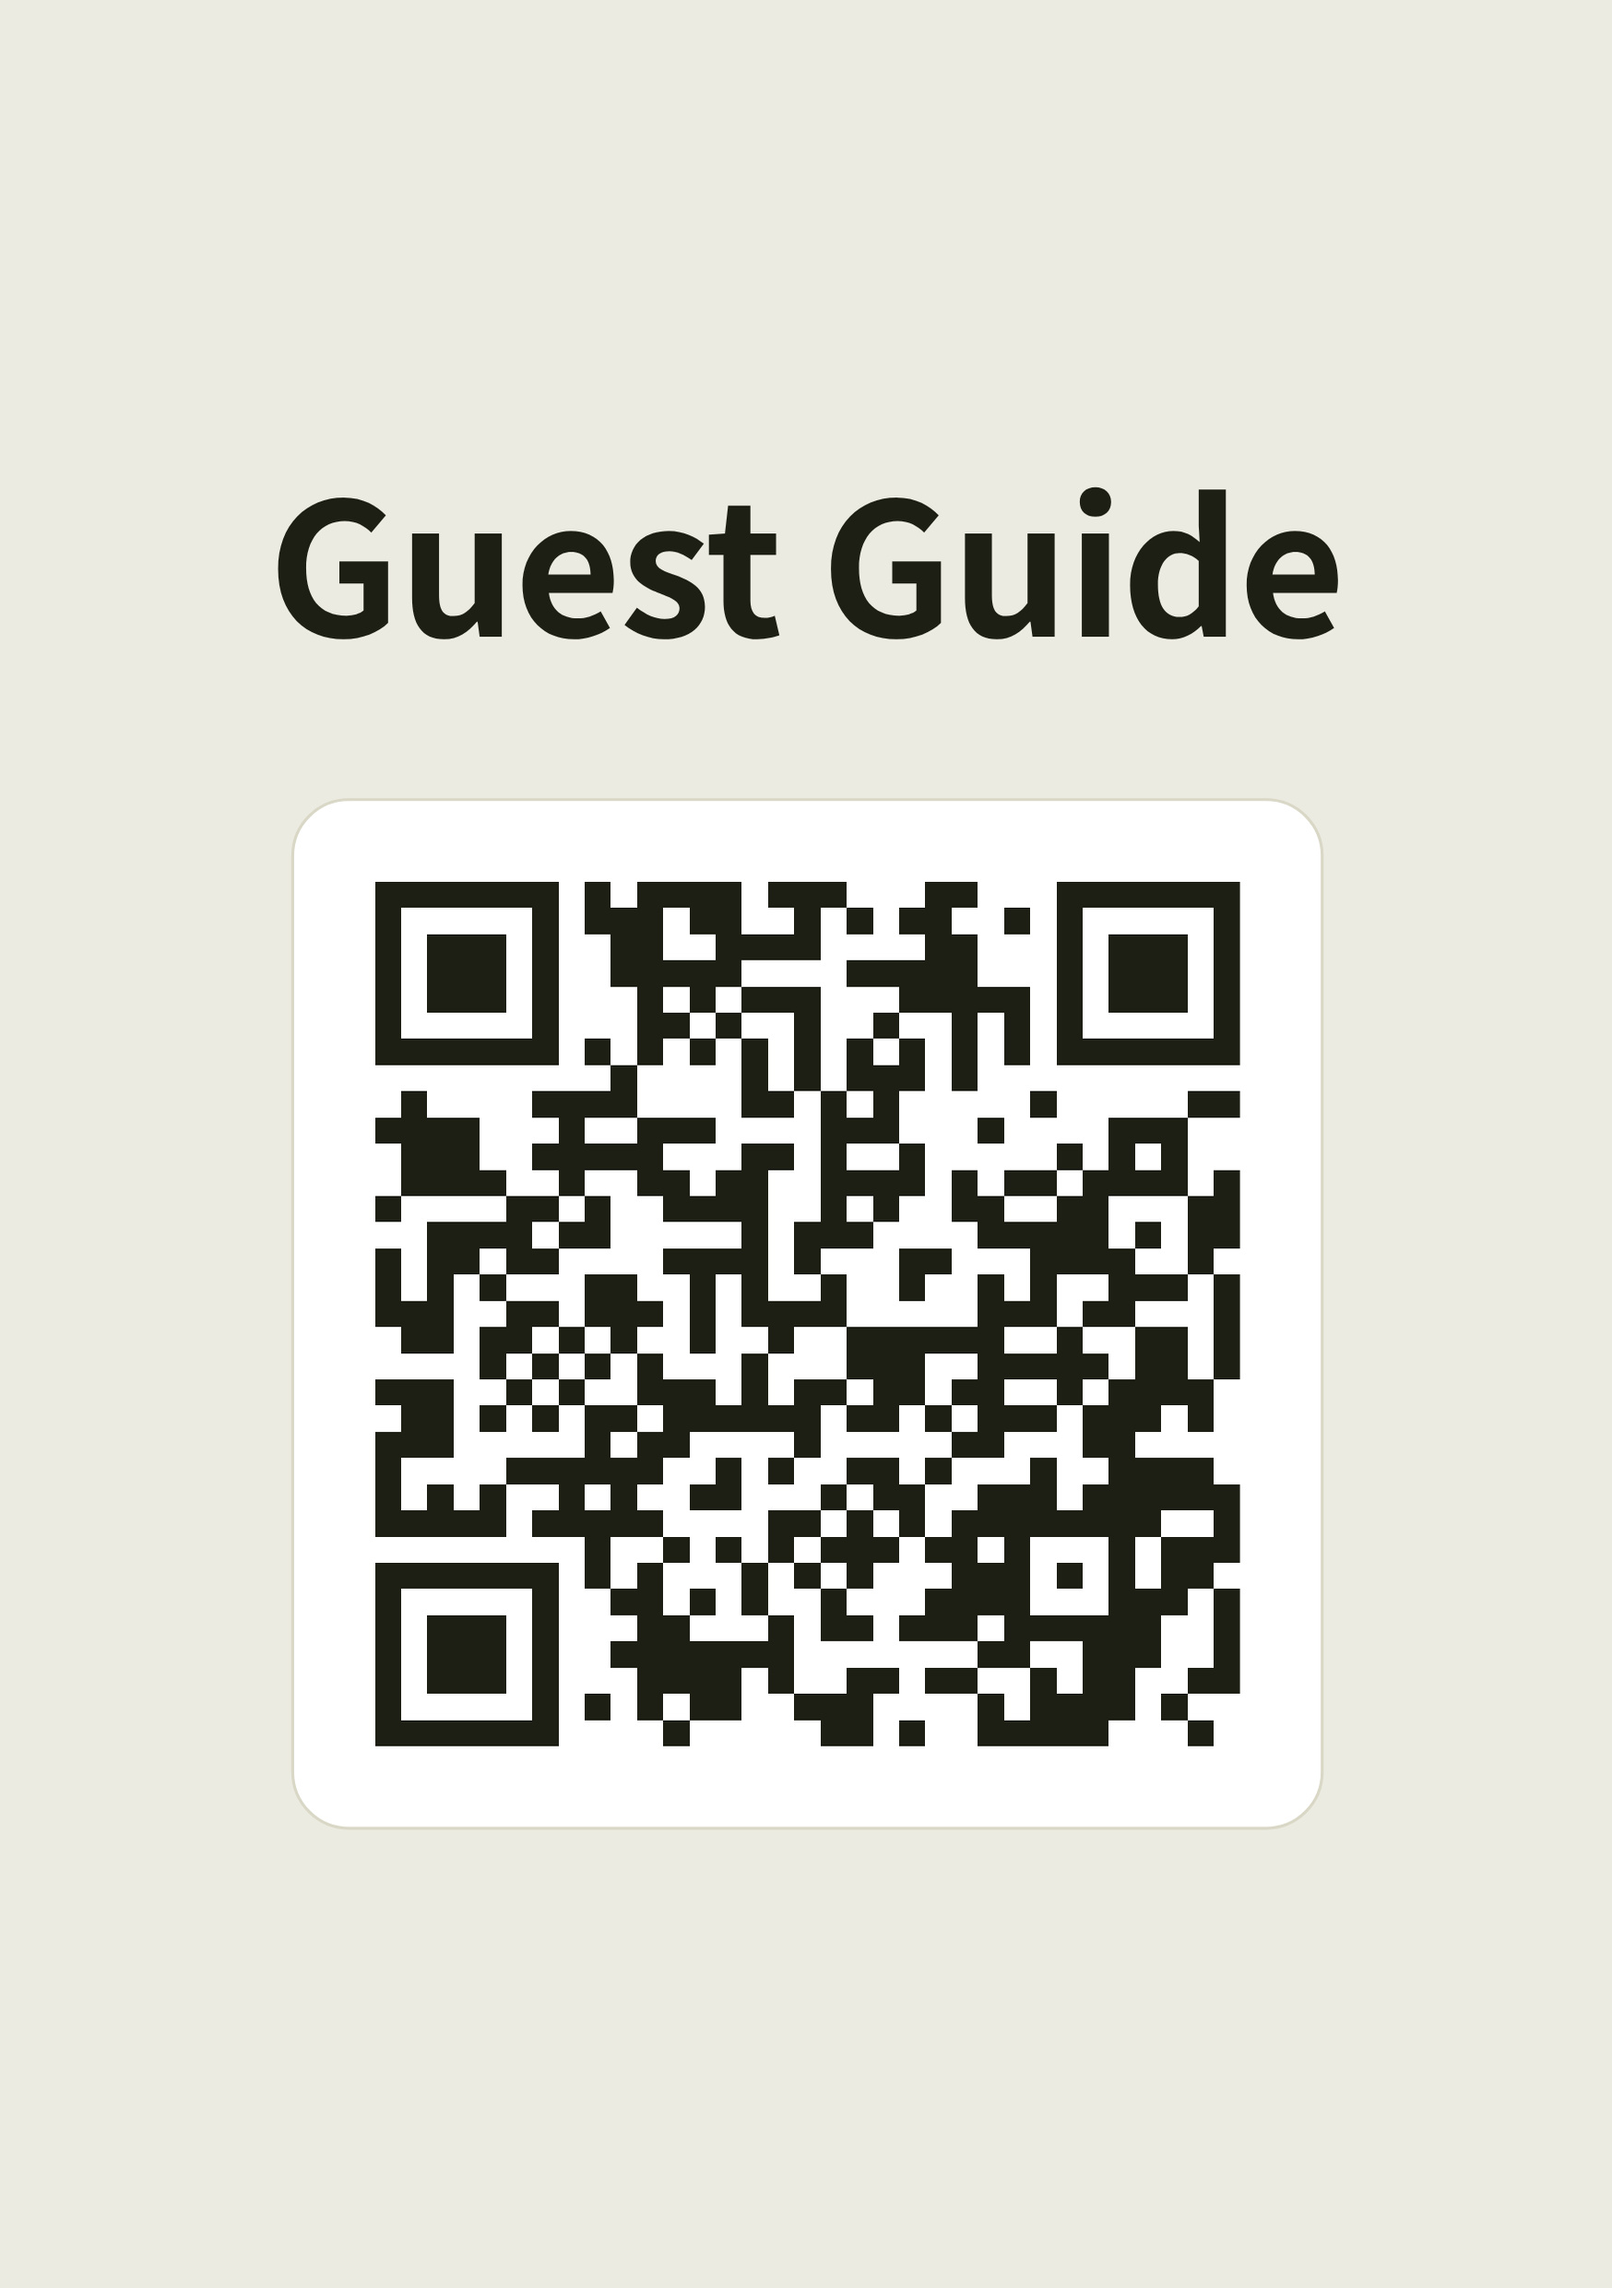
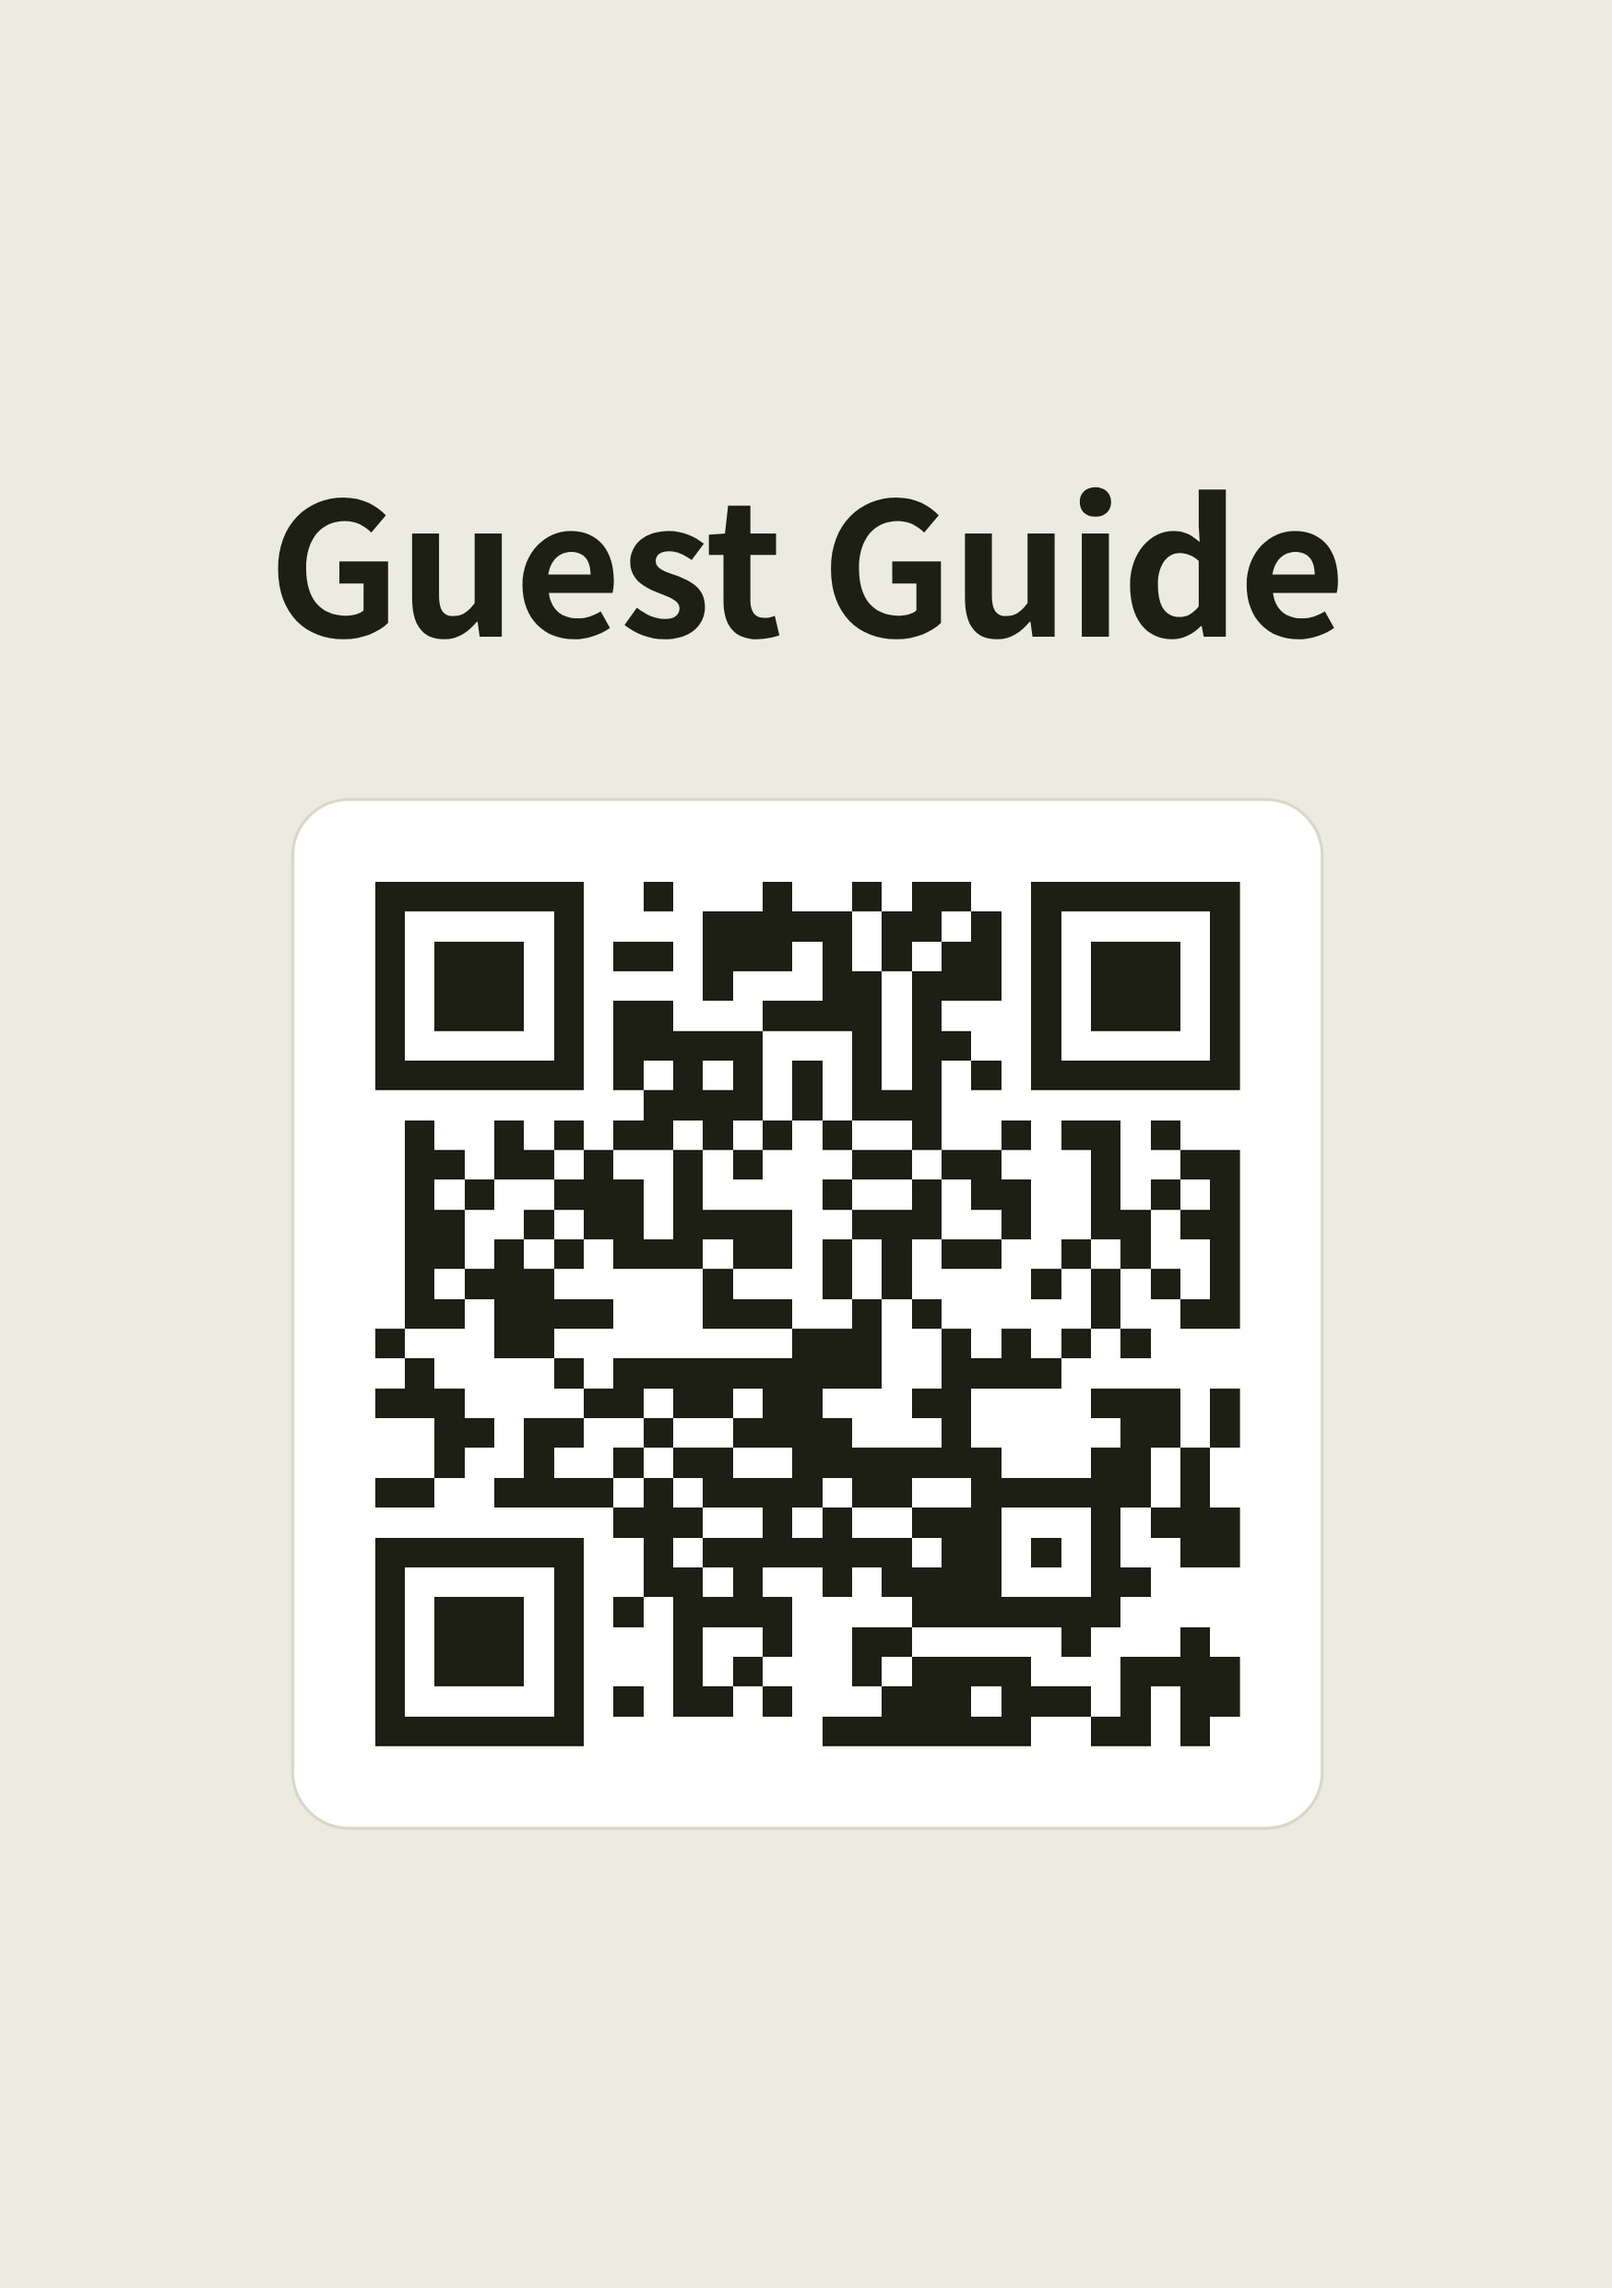
새 주소 biroso433.com 반영: README·QR코드·안내문·작업 기록
- README 게스트용 주소를 https://biroso433.com/ 로 변경
- assets/qr-guest-guide.svg, Guest_Guide_QR_A5.jpg 를 새 주소 QR로 교체
- 웹북 본문(index.html)은 변경 없음

Claude-Session: https://claude.ai/code/session_017okWn9vp4AU196wdwPDfNi

Changed region(s): [[0.2162, 0.3726, 0.7723, 0.7762]]

diff --git a/CHANGELOG.md b/CHANGELOG.md
@@ -113,3 +113,24 @@
 - 버전 태그 v1.0: 이 작업 환경에서는 태그·릴리스 생성이 막혀 있음 → GitHub Desktop에서 0218f36 커밋에 v1.0 태그를 달고 Push
 - 바탕화면 백업: biroso433_v1.0_backup_20261023.zip
 - 보류: 서비스 워커(안드로이드 원클릭 설치 보강) — 수정안 확인 후 v1.1에서 검토
+
+## 2026-10-23 19:25 (KST) · v1.1 수정안 (승인 대기, 미게시)
+요청: 보류했던 서비스 워커 마무리
+- 새 파일 sw.js (깃허브에만): 네트워크 우선 + 오프라인 시 마지막 내용 표시, 캐시 이름 biroso433-v1.1
+- index.html: 서비스 워커 등록 코드 추가 (*.github.io 에서만 동작, Claude 웹북에서는 동작 안 함)
+- 하단 버전 표기 v1.0 → v1.1 (검수본은 "v1.1 검수본")
+- 시험: 휴대폰 크기 렌더링 스크립트 오류 없음, 서비스 워커 활성화, 인터넷 끊고 새로고침해도 웹북 정상 표시
+- 초안 위치: scratchpad/v11/
+
+## 2026-10-23 20:25 (KST) · 자체 도메인 biroso433.com
+- 가비아에서 biroso433.com 구매 (사용자 직접 결제)
+- 가비아 DNS: A @ 185.199.108.153 / .109.153 / .110.153 / .111.153, CNAME www → e-nate1004.github.io.
+- 확인: Google DNS 조회 결과 A 4개·CNAME 정상 반영
+- 다음: 깃허브 Settings → Pages → Custom domain에 biroso433.com 입력 (이 환경에서는 Pages API가 막혀 사용자가 직접), 이후 Enforce HTTPS
+
+## 2026-10-23 20:31 (KST) · 새 주소 biroso433.com 연결 완료
+- 깃허브 Pages Custom domain = biroso433.com (사용자 설정, 커밋 7c41280 "Create CNAME"), DNS check successful, Enforce HTTPS 켜짐
+- 확인: https://biroso433.com/ 에서 웹북 v1.0 정상 표시(남원리 표기, 홈 화면 추가 안내), manifest 정상
+- 예전 주소 e-nate1004.github.io/biroso433/ 는 깃허브가 새 주소로 자동 연결
+- 새 QR코드(https://biroso433.com/, 판독 확인) → QR 안내문 디자인 버전 5, 출력용 JPG 바탕화면 저장: Guest_Guide_QR_A5_biroso433com.jpg
+- 기존 JPG(Guest_Guide_QR_A5.jpg)는 예전 주소용으로 남겨 둠 (계속 작동)

diff --git a/README.md b/README.md
@@ -2,7 +2,7 @@
 
 제주 서귀포 남원리 비로소433 게스트용 이용안내 웹북입니다.
 
-- 게스트용 주소: https://e-nate1004.github.io/biroso433/
+- 게스트용 주소: https://biroso433.com/ (예전 주소 e-nate1004.github.io/biroso433/ 는 자동 연결)
 - 현재 버전: **v1.0** (2026-10-23)
 
 ## 파일
